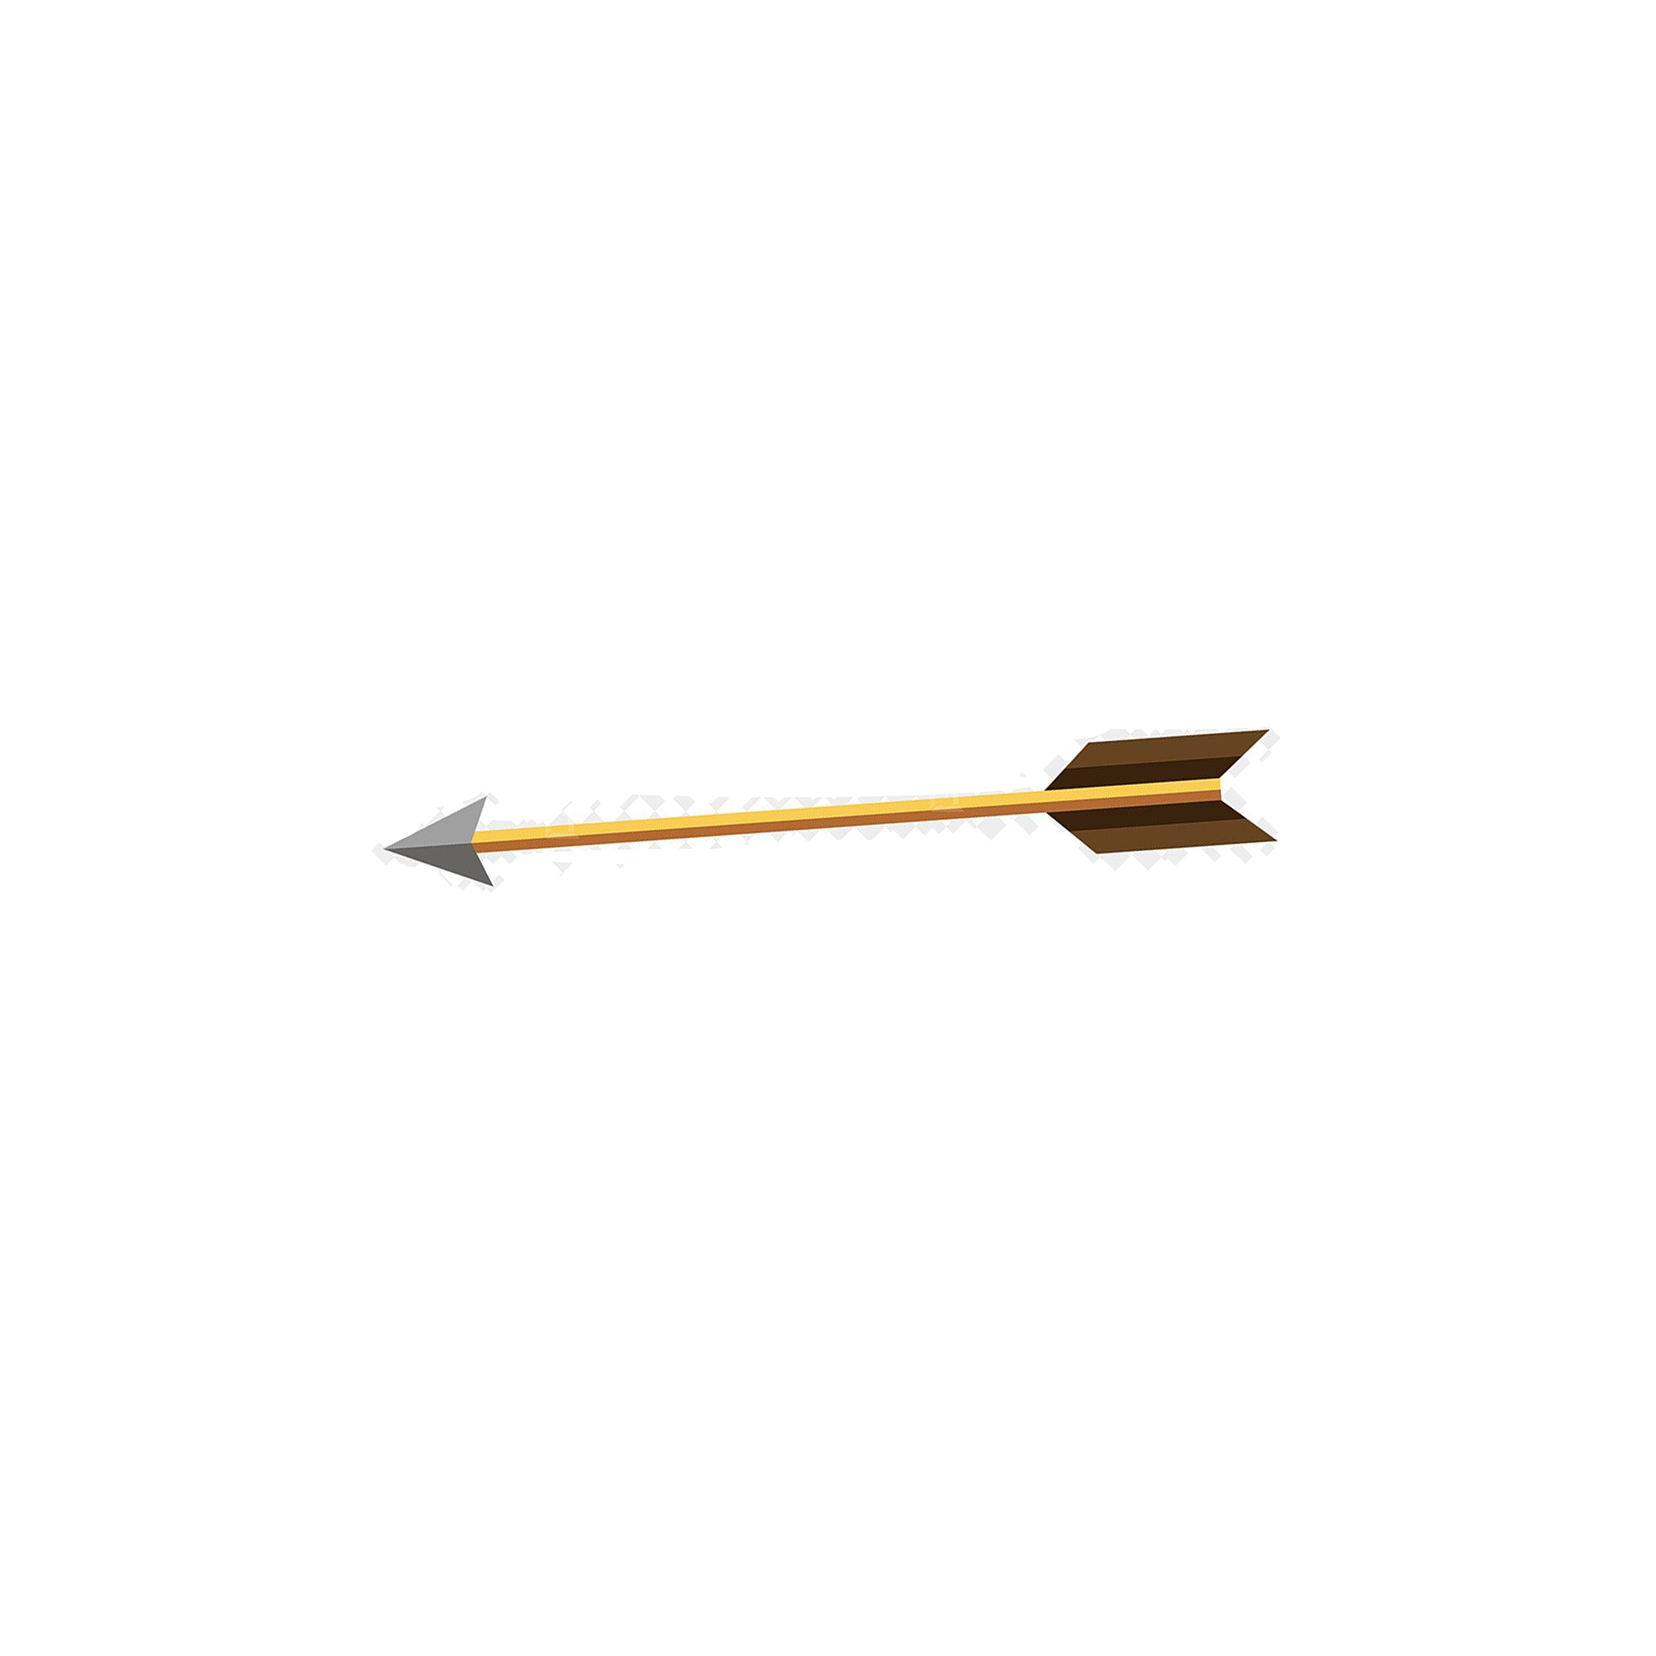
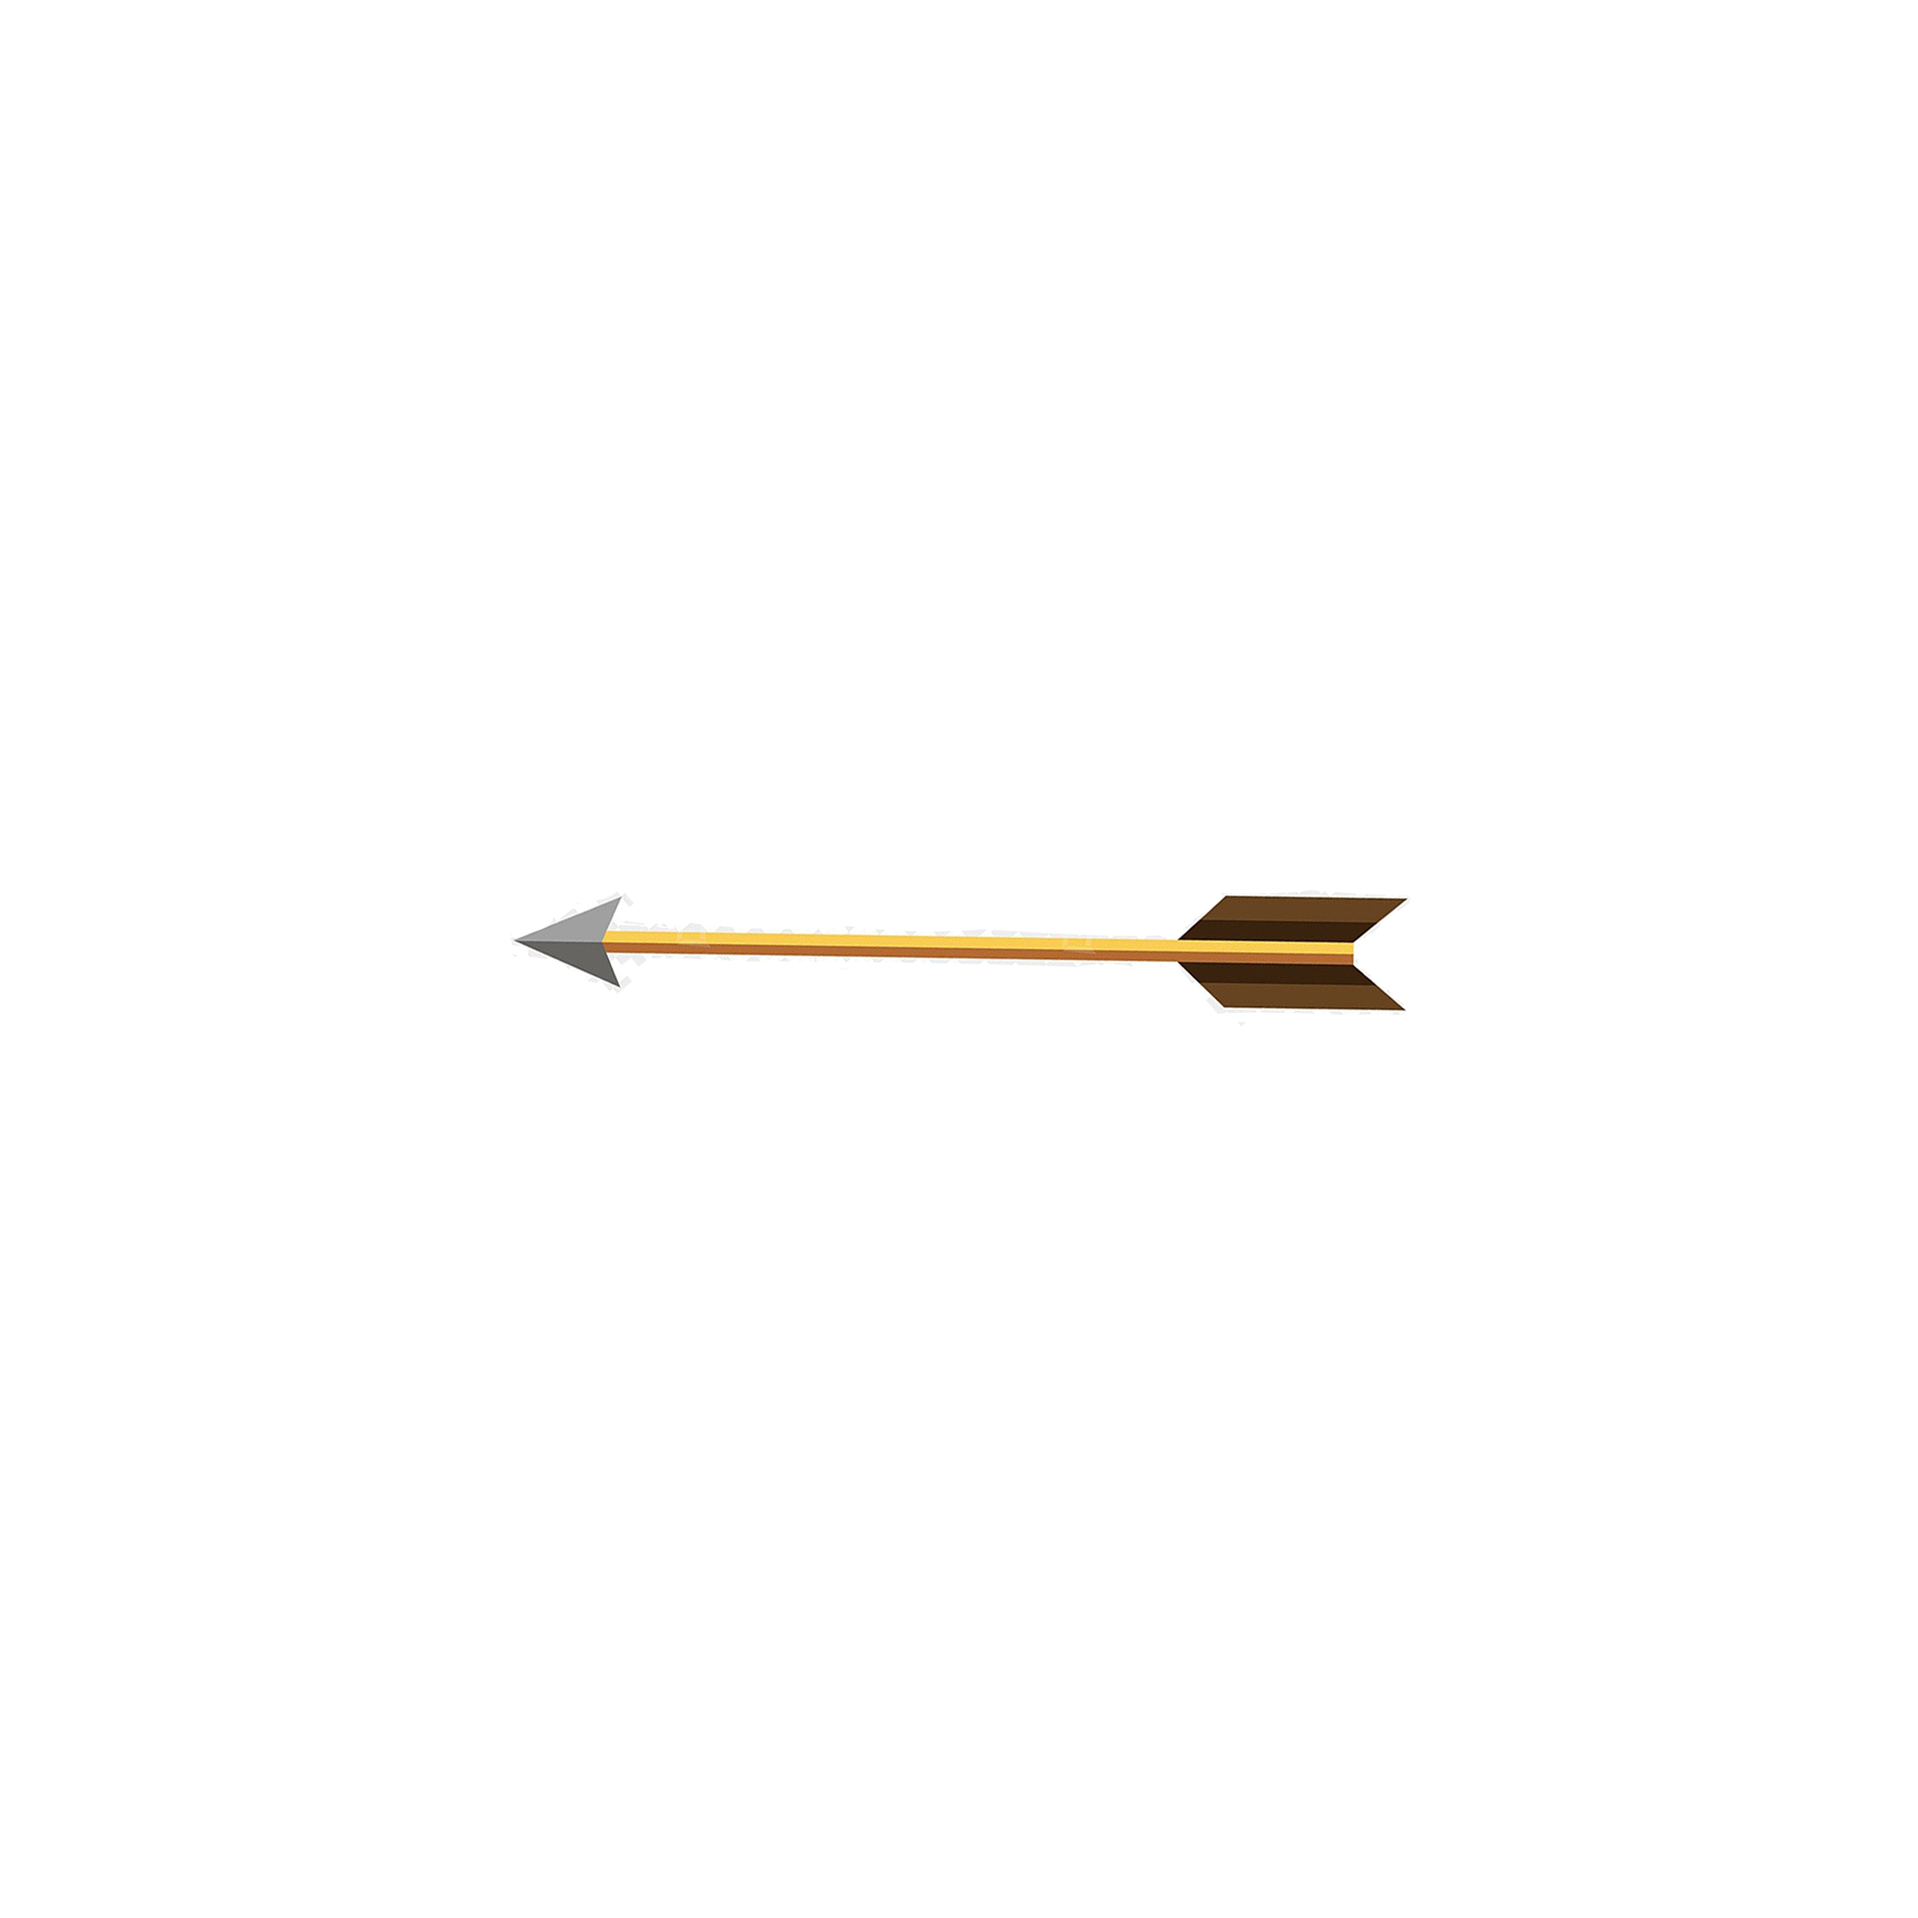
n

Changed region(s): [[0.2178, 0.4356, 0.7778, 0.5289]]

diff --git a/src/GameViewer.java b/src/GameViewer.java
@@ -13,6 +13,7 @@ public class GameViewer extends JFrame implements MouseListener, MouseMotionList
     private int y;
     private int val;
     private int width;
+    private int xa;
     public GameViewer(int fWidth, int fHeight)
     {
         // Create a Ball with the 0 parameter constructor
@@ -84,12 +85,18 @@ public class GameViewer extends JFrame implements MouseListener, MouseMotionList
         // Have the ball draw itself
         T.draw(g);
         B.draw(g,x,y);
-        A.pull(val,g,width);
+        A.pull(val,g,xa);
     }
 
     @Override
     public void mouseClicked(MouseEvent e) {
         //
+        xa = 620;
+        for(int i = 0; i < 32;i++ )
+        {
+            xa /= 10;
+            repaint();
+        }
     }
 
     @Override
@@ -100,7 +107,6 @@ public class GameViewer extends JFrame implements MouseListener, MouseMotionList
     @Override
     public void mouseReleased(MouseEvent e) {
         //
-
     }
 
     @Override

diff --git a/src/Arrow.java b/src/Arrow.java
@@ -8,11 +8,13 @@ public class Arrow extends JFrame{
     private int rval;
     private final int widthBinitail = 50;
     private int power;
+    private int x2;
 
     public Arrow()
     {
          this(400,400,0,0,0,0);
          Arrow = new ImageIcon("Resources/Arrow.png").getImage();
+         x2 = 0;
     }
 
     public Arrow(int fx, int fy, int bx, int by, int dx, int dy)
@@ -28,12 +30,16 @@ public class Arrow extends JFrame{
     }
 
 
-    public void pull(int val, Graphics g,int width)
+    public void pull(int val, Graphics g,int x)
     {
-            drawpull(g,val,power);
+            drawpull(g,val,x);
     }
     public void drawpull(Graphics g,int x, int y){
-        g.drawImage(Arrow,620+x/20,388 - y, 180,210,this);
+        x2 = (620+x/20);
+        if(y > 0) {
+            x2 = y;
+        }
+        g.drawImage(Arrow,x2,388 - y, 180,210,this);
     }
 
 }

diff --git a/src/Target.java b/src/Target.java
@@ -1,8 +1,5 @@
 import javax.swing.*;
 import java.awt.*;
-
-
-
 public class Target extends JFrame {
     private Image Target;
     public Target() {

diff --git a/src/Game.java b/src/Game.java
@@ -1,5 +1,4 @@
 public class Game {
-
     public static void main(String[] args) {
         Game one = new Game();
         one.play();
